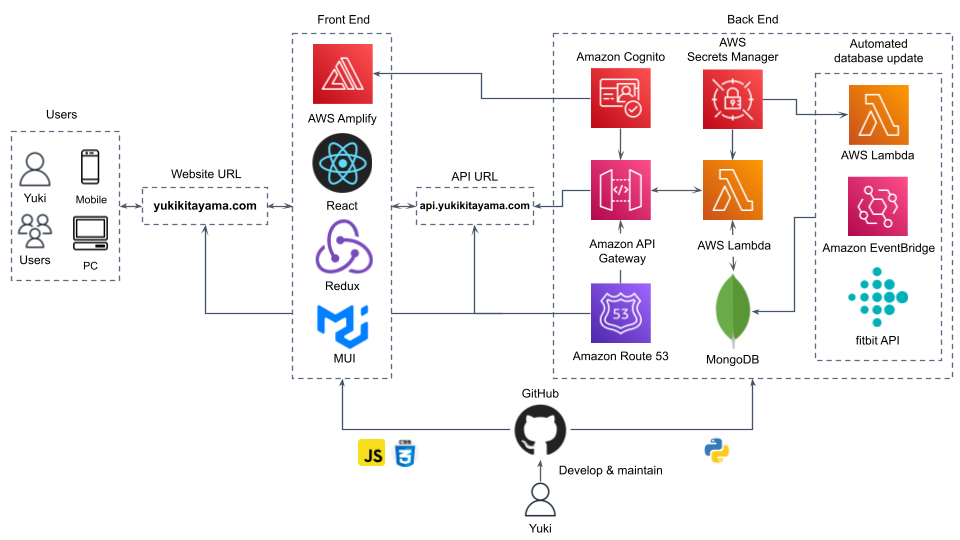
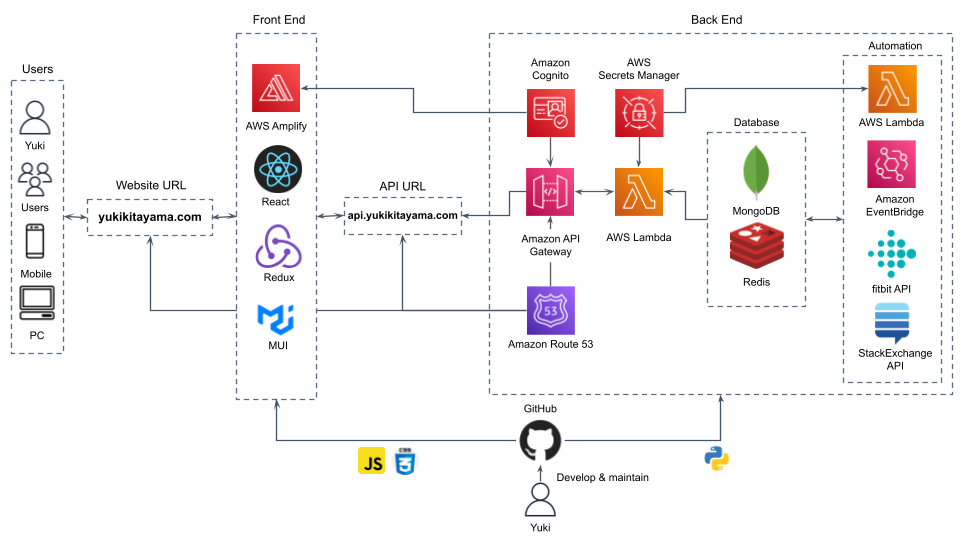
updated architecture image because added Redis to database

diff --git a/src/pages/Dashboard.js b/src/pages/Dashboard.js
@@ -63,7 +63,8 @@ const Dashboard = () => {
             icon={<ConstructionIcon fontSize="large" color="primary" />}
             content={
               <ul>
-                <li>Move either expense or skill data to Redis.</li>
+                <li>Style individual skill page</li>
+                <li>When a user clicks an item in Skill page to go to the individual page, send the clicked data to Redis to count up number of views for each skill page.</li>
                 <li>Remove type column from expense table</li>
                 <li>I want the place to show suggestion in expense item component</li>
                 <li>Make table in expense a separate component</li>
